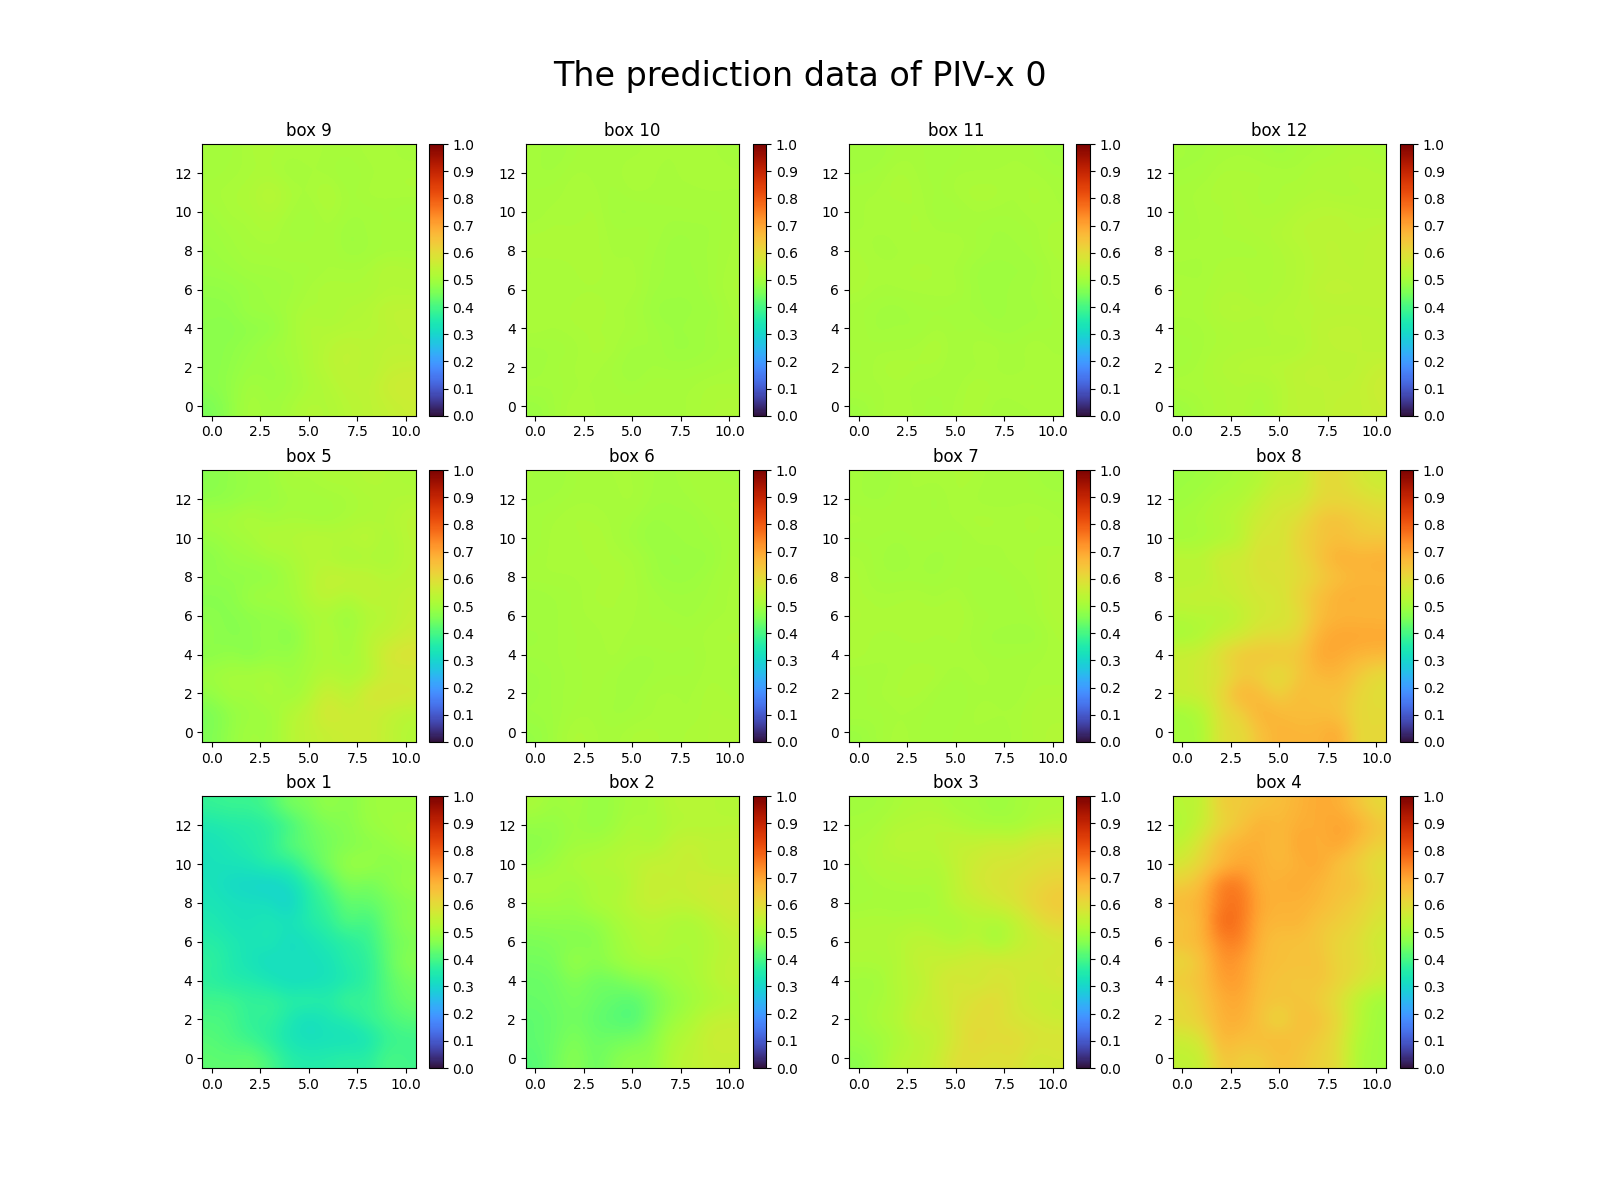
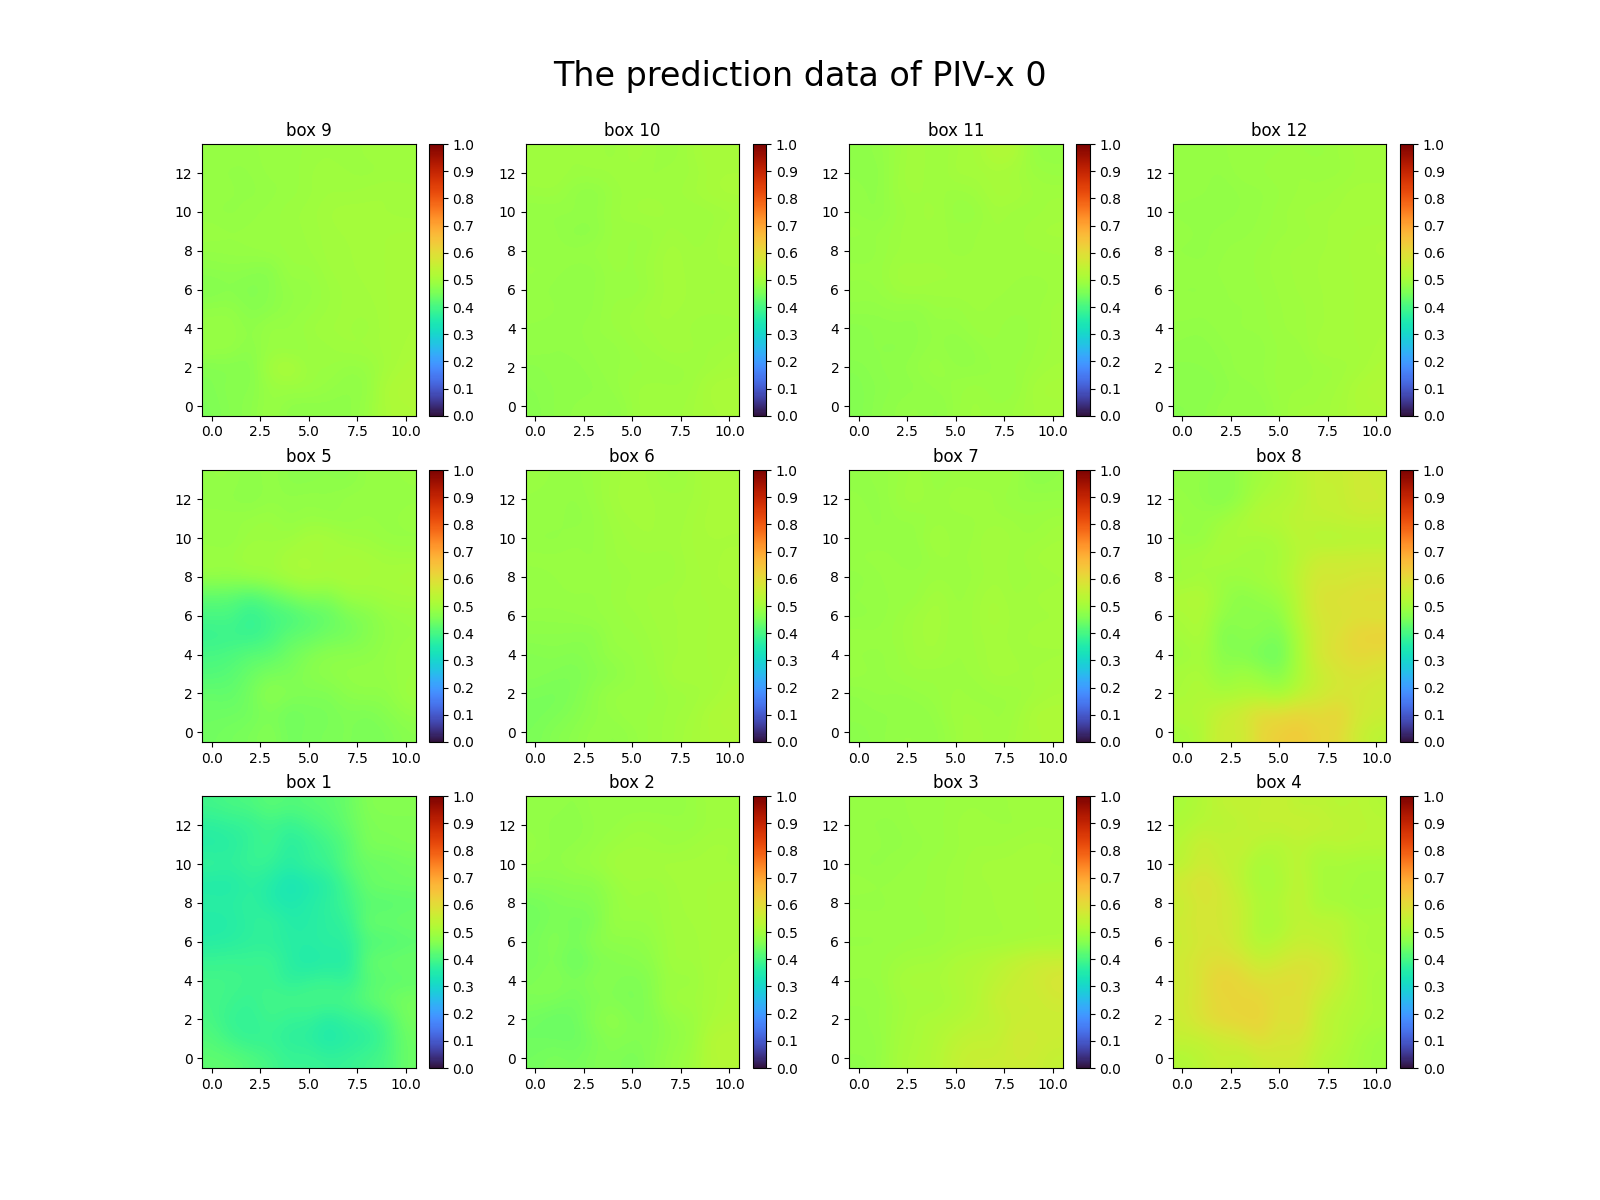
update: train all datasets for 1000 epochs

diff --git a/preprocessed_datasets.py b/preprocessed_datasets.py
@@ -12,27 +12,27 @@ This file is used for generating the datasets for training anding the global mod
 # 1.1. define the parameters for training the model
 rows = 3
 columns = 4
-specified_dataset = 1
+specified_dataset = 4
 
 # 1.2. provide filenames of PIV, PLIF data
 files_PIV = [
-             'data/Attached state/D1F1_air240_PIV_1001to2000.mat', # dataset1 - attached
-             'data/Attached state/D1F1_air240_PIV_2001to3000.mat',
+             # 'data/Attached state/D1F1_air240_PIV_1001to2000.mat', # dataset1 - attached
+             # 'data/Attached state/D1F1_air240_PIV_2001to3000.mat',
              # 'data/Detachment process/D1F1_air240_PIV_13401to13600.mat', # dataset2 - detachment
              # 'data/Lifted state/D1F1_air240_PIV_13601to14000.mat', # dataset3 - lifted
              # 'data/Lifted state/D1F1_air240_PIV_14001to14999.mat',
-             # 'data/Reattachment process/D1F1_air240_PIV_451to650.mat', # dataset4 - reattachment
-             # 'data/Reattachment process/D1F1_air240_PIV_6201to6700.mat'
+             'data/Reattachment process/D1F1_air240_PIV_451to650.mat', # dataset4 - reattachment
+             'data/Reattachment process/D1F1_air240_PIV_6201to6700.mat',
              ]
 
 files_PLIF = [
-              'data/Attached state/D1F1_air240_PLIF_1001to2000.mat', # dataset1 - attached
-              'data/Attached state/D1F1_air240_PLIF_2001to3000.mat',
+              # 'data/Attached state/D1F1_air240_PLIF_1001to2000.mat', # dataset1 - attached
+              # 'data/Attached state/D1F1_air240_PLIF_2001to3000.mat',
               # 'data/Detachment process/D1F1_air240_PLIF_13401to13600.mat', # dataset2 - detachment
               # 'data/Lifted state/D1F1_air240_PLIF_13601to14000.mat', # dataset3 - lifted
               # 'data/Lifted state/D1F1_air240_PLIF_14001to14999.mat',
-              # 'data/Reattachment process/D1F1_air240_PLIF_451to650.mat/', # dataset4 - reattachment
-              # 'data/Reattachment process/D1F1_air240_PLIF_6201to6700.mat'
+              'data/Reattachment process/D1F1_air240_PLIF_451to650.mat', # dataset4 - reattachment
+              'data/Reattachment process/D1F1_air240_PLIF_6201to6700.mat',
               ]
 
 # PART 2: preprocess the datasets (for PLIF)

diff --git a/main_global.py b/main_global.py
@@ -34,7 +34,7 @@ img_num = 0
 EPOCHS = 1000
 lr = 0.0001
 if_existing = False # a flag recording if there is an existing fullyCNN model
-dataset_num = 1
+dataset_num = 4
 
 # PART 2：create the dataloader for training
 # 2.1. load the datasets
